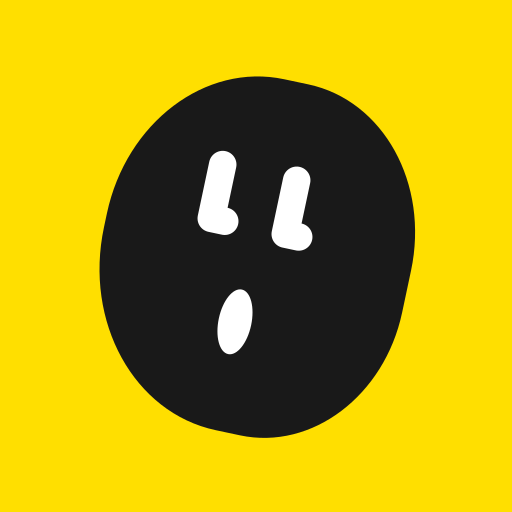
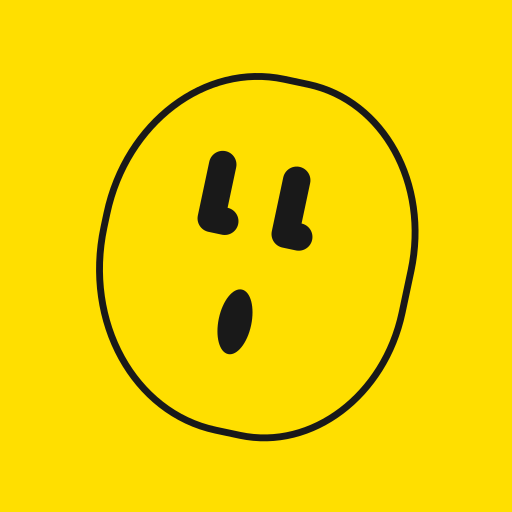
Update yellow artwork guidance and outline branding for 0.13.7

diff --git a/plugins/ettu/skills/ettu/SKILL.md b/plugins/ettu/skills/ettu/SKILL.md
@@ -104,7 +104,7 @@ Reuse the same request key if the response is lost, then inspect the returned ve
 
 ## Artwork and privacy
 
-Artwork follows the character's permanent universe: Clay uses rounded matte clay-like 3D forms; Anime uses clean dark ink contours, restrained colors, consistent compact proportions, and two-tone 2D cel shading. The server controls the exact style; user descriptions cannot override it. Status GIFs use the same universe and approved identity. Newly generated character/status sprites retain a full opaque white background. Published characters anchor new versions to their published portrait: unchanged features preserve identity while explicitly requested appearance changes take precedence. Regeneration draws fresh artwork; an ordinary unchanged update may reuse compatible approved idle frames. A 4×4 sheet has eight idle-animation frames plus eight reference views: front, front-right, right, back-right, back, back-left, left, front-left. The GIF includes only the eight idle frames. Older retained versions may have different layouts: use each asset's manifest for frame coordinates and animation timing. Angle labels describe intended views, not calibrated 3D geometry.
+Artwork follows the character's permanent universe: Clay uses rounded matte clay-like 3D forms; Anime uses clean dark ink contours, restrained colors, consistent compact proportions, and two-tone 2D cel shading. The server controls the exact style; user descriptions cannot override it. Status GIFs use the same universe and approved identity. Newly generated character/status sprites retain a full opaque yellow (#ffdf00) background in both universes. Published files and exact restores keep their existing artwork; a background change does not authorize a paid regeneration. Published characters anchor new versions to their published portrait: unchanged features preserve identity while explicitly requested appearance changes take precedence. Regeneration draws fresh artwork; an ordinary unchanged update may reuse compatible approved idle frames. A 4×4 sheet has eight idle-animation frames plus eight reference views: front, front-right, right, back-right, back, back-left, left, front-left. The GIF includes only the eight idle frames. Older retained versions may have different layouts: use each asset's manifest for frame coordinates and animation timing. Angle labels describe intended views, not calibrated 3D geometry.
 
 Return server-provided URLs for `assets.portrait`, `assets.gif`, `assets.sprite`, and `assets.manifest`; do not invent them. Owner reads return signed preview links for private storage, valid for 15 minutes. Refresh them with `get_character` or `get_character_version` when expired; do not regenerate. For curiosity about a failed style/quality check, request `include_generated_frames: true` on an owner `get_character` or `get_character_version` read. The optional `generated_frames.sheets` includes signed sprite URLs, frame counts, attempts, quality outcomes and rejection reasons. Only retained content-reviewed candidates are available, including historical quality failures when content approval can be established. Checkpoints expire after seven days; the response explains when no preview is available. The creator’s version panel also has **Review generated frames**. These previews do not override universe style, content rules or publication checks; never describe them as approved artwork. Refresh expired links with a read rather than a redraw.
 

diff --git a/docs/mcp/README.md b/docs/mcp/README.md
@@ -30,7 +30,7 @@ On a stale-version error, read again and reconcile the user's intended change; d
 
 - `id`, `channel`, `episode`, `character`, `target`, `message` and `recipient_profile` are different references. They are not interchangeable. Only `resolve_ettu_handle` and `set_follow` accept either UUID or `@handle`; other tools use UUIDs unless their schema says otherwise.
 - `create_character` takes definition fields at the top level; `update_character` takes a complete nested `definition`. It is a replacement, not a patch. Updates preserve the old published version and create a new private version. Universe is immutable; an update's optional `universe` is only an assertion of the existing value.
-- New character artwork uses the currently published portrait as an identity reference, including when the definition changes. Generation and review preserve unchanged features and allow explicitly requested appearance changes. An unchanged definition can reuse compatible approved idle artwork; `regenerate_character` always requests a fresh generation. Reference assets are retained while the new version is queued/generating. First-time characters have no published reference. Character/status sprites now keep full opaque white backgrounds; universe colors remain website presentation.
+- New character artwork uses the currently published portrait as an identity reference, including when the definition changes. Generation and review preserve unchanged features and allow explicitly requested appearance changes. An unchanged definition can reuse compatible approved idle artwork; `regenerate_character` always requests a fresh generation. Reference assets are retained while the new version is queued/generating. First-time characters have no published reference. Character/status sprites now keep full opaque yellow (`#ffdf00`) backgrounds; universe colors remain website presentation.
 - `regenerate_character` takes the target failed `version`, the current `expected_version`, and a UUID `request_key`. The owner must request it. It copies the failed definition/interview exactly into a new private version with current models/style rules, preserving the original error and content-reviewed previews under normal retention. It rejects published, ready, content-rejected and archived targets; queued/generating work blocks another attempt. Revise content rejections through `update_character`. It never changes publication; `publish_character` is still explicit.
 - New definitions require name (1–100 characters), personality/appearance/voice (1–1,200 each), 3–50 case-insensitively distinct favorites and hates (1–120 each), and up to 20 traits (keys ≤60, values ≤300). Older definitions may omit `voice` on update/restore. Do not infer a voice the user never supplied.
 - On character updates, retained interests keep their prior order and new interests append in the supplied order. The detail page shows the last six items first, with the remainder expandable. Creation and legacy arrays use their existing order as the baseline; restore preserves the selected historical snapshot.
